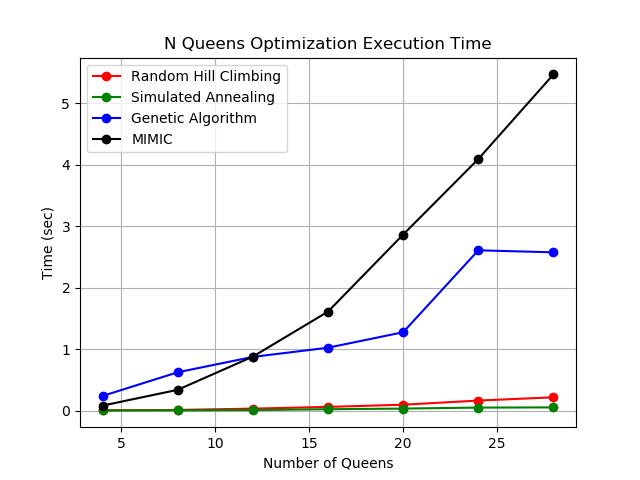
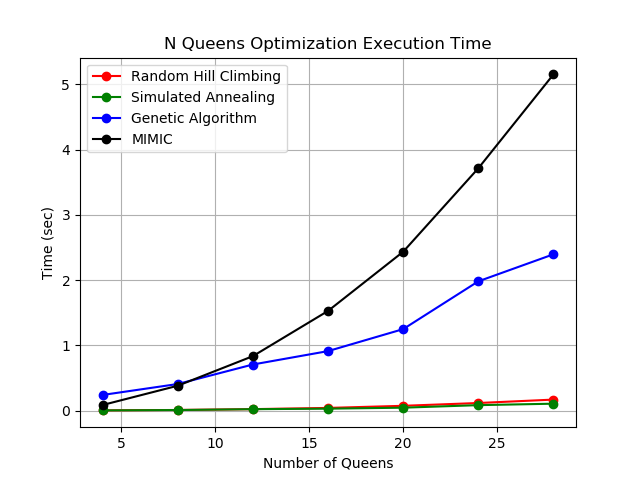
fixed n queens problem

diff --git a/run_optimizations.py b/run_optimizations.py
@@ -64,10 +64,12 @@ plt.ylabel("Max Value")
 
 plt.grid()
 
-plt.plot(queen_range, queen_rhc_avgs, 'o-', color="red", label="Random Hill Climbing")
-plt.plot(queen_range, queen_sa_avgs, 'o-', color="green", label="Simulated Annealing")
-plt.plot(queen_range, queen_ga_avgs, 'o-', color="blue", label="Genetic Algorithm")
-plt.plot(queen_range, queen_mimic_avgs, 'o-', color="black", label="MIMIC")
+n_queens = np.array(queen_range)
+
+plt.plot(queen_range, n_queens - np.array(queen_rhc_avgs), 'o-', color="red", label="Random Hill Climbing")
+plt.plot(queen_range, n_queens - np.array(queen_sa_avgs), 'o-', color="green", label="Simulated Annealing")
+plt.plot(queen_range, n_queens - np.array(queen_ga_avgs), 'o-', color="blue", label="Genetic Algorithm")
+plt.plot(queen_range, n_queens - np.array(queen_mimic_avgs), 'o-', color="black", label="MIMIC")
 
 plt.legend(loc="best")
 

diff --git a/problems.py b/problems.py
@@ -18,7 +18,7 @@ def one_max(bit_length = 50):
 def queens(n_queens = 16):
     fitness_fn = mlrose.Queens()
 
-    problem = mlrose.DiscreteOpt(length = n_queens, fitness_fn = fitness_fn, max_val = n_queens)
+    problem = mlrose.DiscreteOpt(length = n_queens, maximize=False, fitness_fn = fitness_fn, max_val = n_queens)
 
     return problem
 
